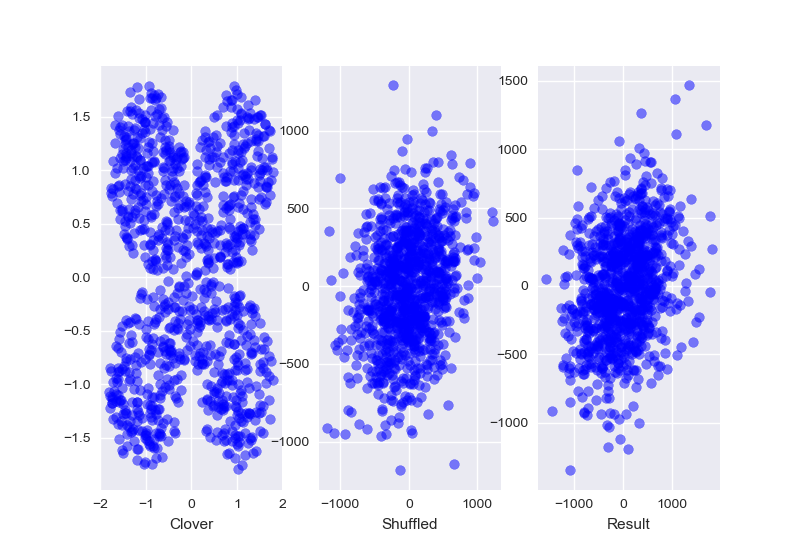
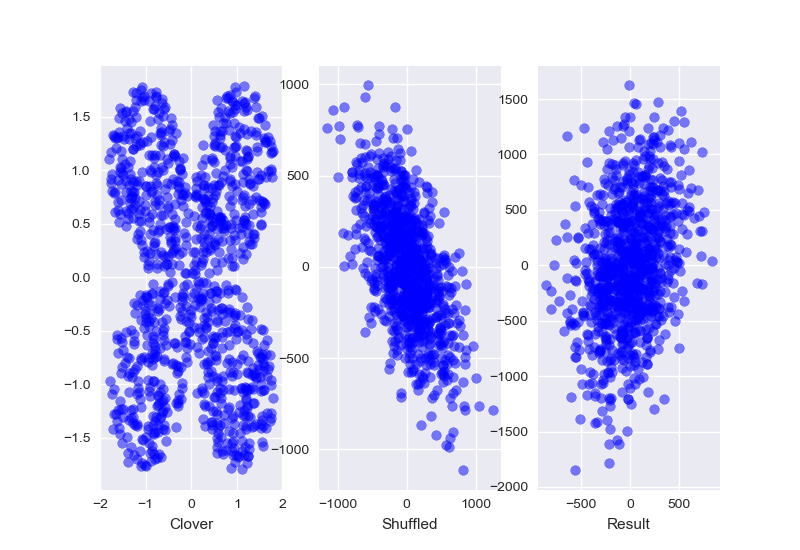
due to reading matlab code, whiten the NG result subspace before we project the data on it

diff --git a/run_on_oil_data.py b/run_on_oil_data.py
@@ -11,8 +11,6 @@ import constant
 import nevergrad as ng
 import utilities
 
-# First run - OPTIMAL PARAMS FROM NEVERGRAD: {'alpha1': 8.989709189727106, 'alpha2': 1.3066479566344726, 'beta1': 2.2563194428877242, 'beta2': -0.1265712190654496}
-
 
 def evaluate_test_data(algorithm_params):
 
@@ -81,10 +79,7 @@ def plot_3d_data(proj_data, params, labels):
 def evaluate_ng_subspace(algorithm_params, train_samples, train_samples_copy, validation_data, validation_labels, plot_data=False):
 
     # Run algorithm on samples from train data
-    start = time.time()
     approx_ng_subspace = run_ngca_algorithm(train_samples, train_samples_copy, algorithm_params)
-    end = time.time()
-    duration = end - start
 
     # Project validation data on the result subspace
     proj_data = np.dot(validation_data, approx_ng_subspace)
@@ -92,13 +87,13 @@ def evaluate_ng_subspace(algorithm_params, train_samples, train_samples_copy, va
     # evaluate data clustering by algorithm
     score = utilities.get_result_score(proj_data, validation_labels)
 
+    # score result
+    utilities.print_score(score)
+
     # plot data in 2D & 3D
     if plot_data:
         plot_2d_data(proj_data, algorithm_params, validation_labels)
         plot_3d_data(proj_data, algorithm_params, validation_labels)
-
-    # score result
-    utilities.print_score(score)
 
     return score
 
@@ -118,11 +113,15 @@ def scoring():
         'beta2': 0.64,
     }
 
-    score = evaluate_ng_subspace(algorithm_params, train_samples, train_samples_copy, validation_data, validation_labels)
+    score = evaluate_ng_subspace(algorithm_params, train_samples, train_samples_copy, validation_data, validation_labels, plot_data=True)
     return score
 
 
 def main():
+
+    # single run
+    # scoring()
+    # return
 
     # Optimize params on test and validation datasets
     instrum = ng.Instrumentation(alpha1=ng.var.Array(1).asscalar(),
@@ -132,13 +131,14 @@ def main():
     optimizer = ng.optimizers.OnePlusOne(instrumentation=instrum, budget=100)
     # recommendation = optimizer.minimize(score_ngca_algorithm_on_oil_dataset)
 
-    for _ in range(optimizer.budget):
+    for i in range(optimizer.budget):
         try:
+            print('{} out of {}'.format(i, optimizer.budget))
             x = optimizer.ask()
             value = score_ngca_algorithm_on_oil_dataset(*x.args, **x.kwargs)
             optimizer.tell(x, value)
-        except ValueError as e:
-            print(e)
+        except:
+            print('Error')
 
     recommendation = optimizer.provide_recommendation()
 

diff --git a/ngca_algorithm.py b/ngca_algorithm.py
@@ -110,8 +110,8 @@ def is_unit_vector(vector):
 def run_ngca_algorithm(samples, samples_copy, alpha1, alpha2, beta1, beta2):
 
     # Whiten samples
-    whiten_samples, c_samples, _ = whiten(samples)
-    whiten_samples_copy, c_samples_copy, _ = whiten(samples_copy)
+    whiten_samples, _, _ = whiten(samples)
+    whiten_samples_copy, _, _ = whiten(samples_copy)
 
     assert_isotropic_model(whiten_samples)
     assert_isotropic_model(whiten_samples_copy)
@@ -135,9 +135,10 @@ def run_ngca_algorithm(samples, samples_copy, alpha1, alpha2, beta1, beta2):
     # Calculate E space - non gaussian space
     result_space = union_subspace(matrix_phi_relevant_eigenvectors, matrix_psi_relevant_eigenvectors)
 
-    assert_all_columns_unit_vectors(result_space)
+    whiten_result_space, _, _ = whiten(result_space)  # try whiten the subspace before return due to matlab code
 
-    return result_space
+    return whiten_result_space
+    # return result_space
 
 
 def run(samples, samples_copy, params):

diff --git a/utilities.py b/utilities.py
@@ -51,7 +51,7 @@ def algorithm_params_to_print(params):
 
 
 def print_score(score):
-    print('Score is {}% match between expected labels clustering and kmeans cluster'.format((1 - score)*100))
+    print('Score is {}% match between expected labels clustering and kmeans cluster'.format(round((1 - score)*100, 2)))
 
 
 def all_zeros(arr):
